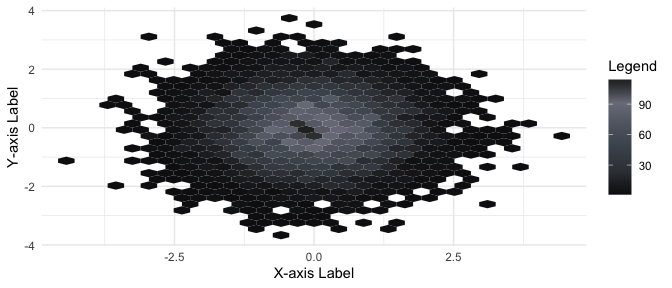
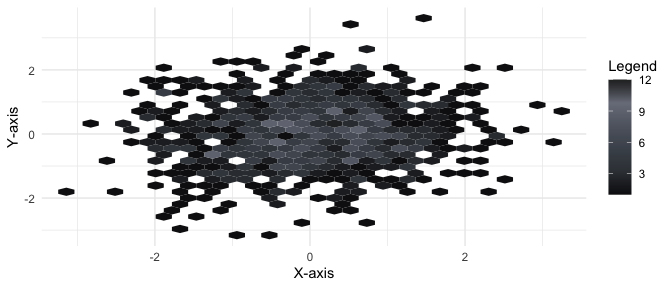
readme

diff --git a/README.md b/README.md
@@ -83,12 +83,12 @@ ggplot(data = iris,
 ``` r
 library(ggplot2)
 
-ggplot(data.frame(x = rnorm(10000), y = rnorm(10000)),
+ggplot(data.frame(x = rnorm(1000), y = rnorm(1000)),
        aes(x = x, y = y)) +
   geom_hex() + 
   theme_minimal() +
   scale_fill_dune_c(name = "atreides3") +
-  labs(x = "X-axis Label", y = "Y-axis Label", fill = "Legend")
+  labs(x = "X-axis", y = "Y-axis", fill = "Legend")
 ```
 
 <img src="man/figures/README-example2-1.png" width="100%" />
